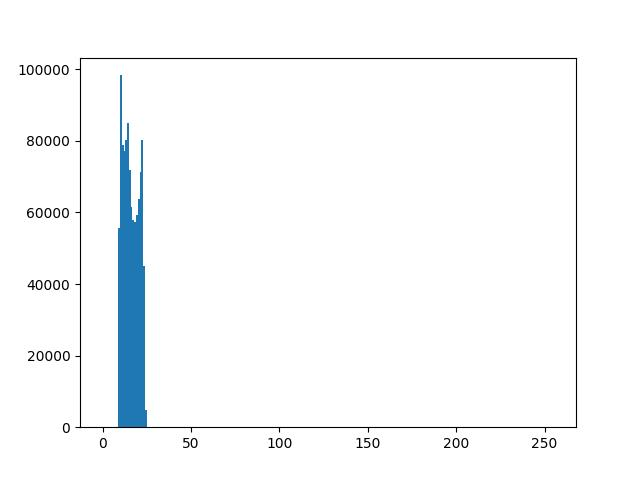
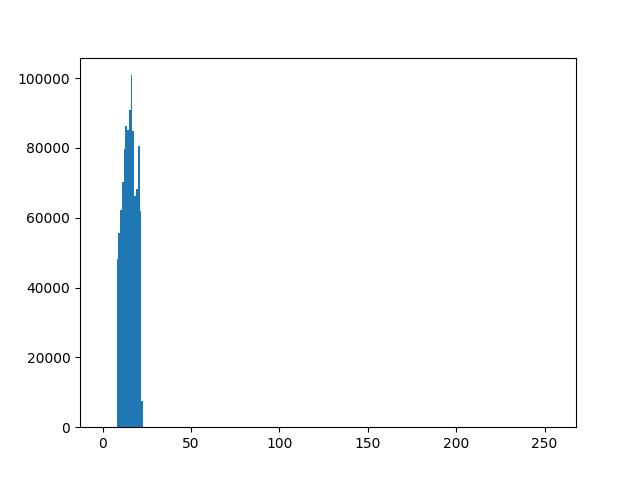
little amend

diff --git a/light-estimation_filtered.py b/light-estimation_filtered.py
@@ -2,6 +2,7 @@ from PIL import Image
 import numpy as np
 import cv2
 import math
+import light_pic
 
 #获得深度图像
 D=np.array(Image.open('D_filtered.png'))
@@ -11,6 +12,8 @@ for i in range(D.shape[0]):
     for j in range(D.shape[1]):
         if D[i][j]!=0 and D[i-1][j]!=0 and D[i][j-1]!=0:
             mask[i][j]=1
+
+cv2.imwrite('./result/light_estimate/mask.jpg', 255 * mask)
 #灰度原始图像
 Ic=Image.open('RGBD_single/0_000000.jpg')
 grey_im=Ic.convert('L')
@@ -50,7 +53,7 @@ I_n=np.zeros((D.shape[0],D.shape[1],3))
 I_n=n*255
 I_n=Image.fromarray(np.uint8(I_n))
 I_n.show()
-I_n.save('I_n_filtered.jpg')
+I_n.save('./result/light_estimate/I_n_filtered.jpg')
 #计算用于得到l的H矩阵
 #n= np.load(file="n.npy")
 for i in range(I.shape[0]):
@@ -72,11 +75,14 @@ I_0removed=I_RESHAPE[~np.all(I_RESHAPE==-1,axis=1)]
 #计算lk
 l=np.linalg.inv(H_0removed.T@H_0removed)@H_0removed.T@I_0removed
 
+#生成光照图像
+light_pic.cubemap(l)
+
 #保存数据
 #np.savetxt(fname="D.csv",X=D,fmt="%f",delimiter=",")
 #np.save(file="n.npy",arr=n)
-np.savetxt(fname="l_filtered.csv",X=l,fmt="%f",delimiter=",")
-np.savetxt(fname="H_filtered.csv",X=H,fmt="%f",delimiter=",")
+np.savetxt(fname="./result/light_estimate/l_filtered.csv",X=l,fmt="%f",delimiter=",")
+np.savetxt(fname="./result/light_estimate/H_filtered.csv",X=H,fmt="%f",delimiter=",")
 
 
 

diff --git a/light_pic.py b/light_pic.py
@@ -6,7 +6,15 @@ from PIL import Image
 import matplotlib.pyplot as plt
 
 #球谐函数系数
-lk = [74.038628, -3.704239, -11.327151, 8.248179, 3.702642, -5.651120, 1.306817, 10.017500, -14.771805]
+lk = [94.678201,
+-3.423619,
+13.471551,
+25.164422,
+-0.318307,
+-8.479666,
+4.288890,
+24.088781,
+-9.017026]
 
 def cubemap(lk):
     SIZE = 1024
